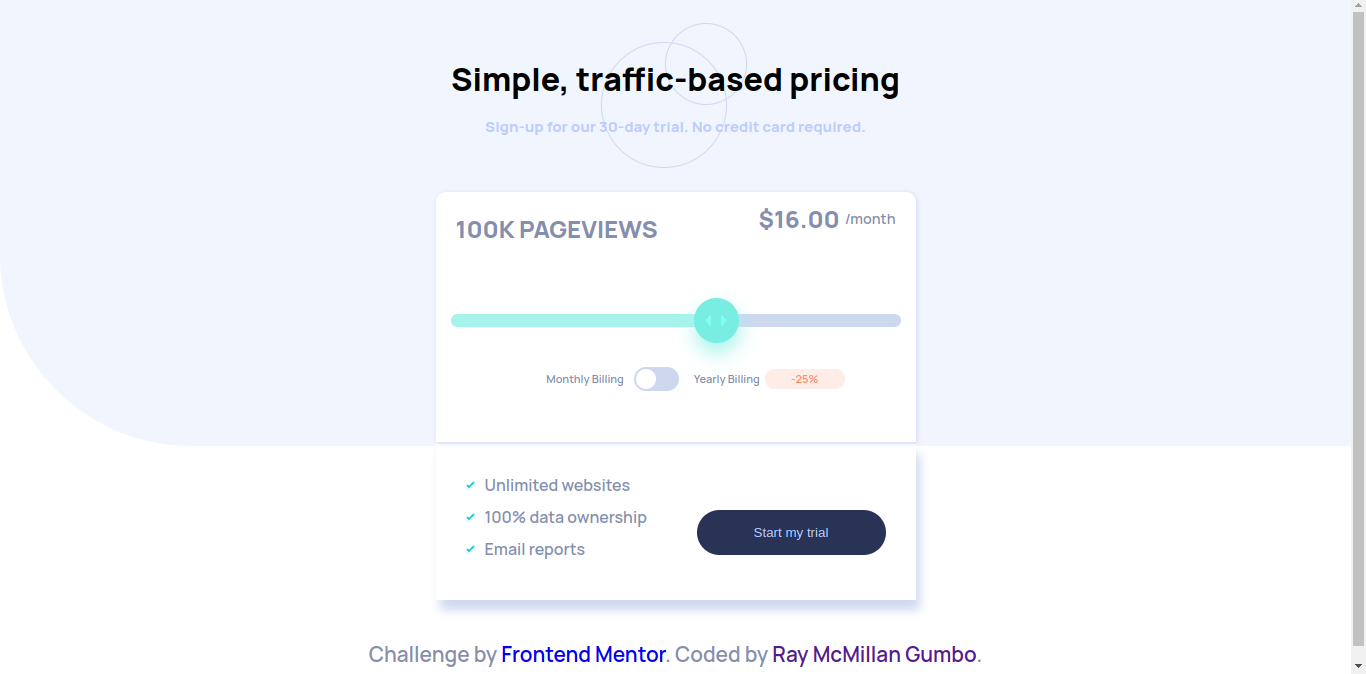
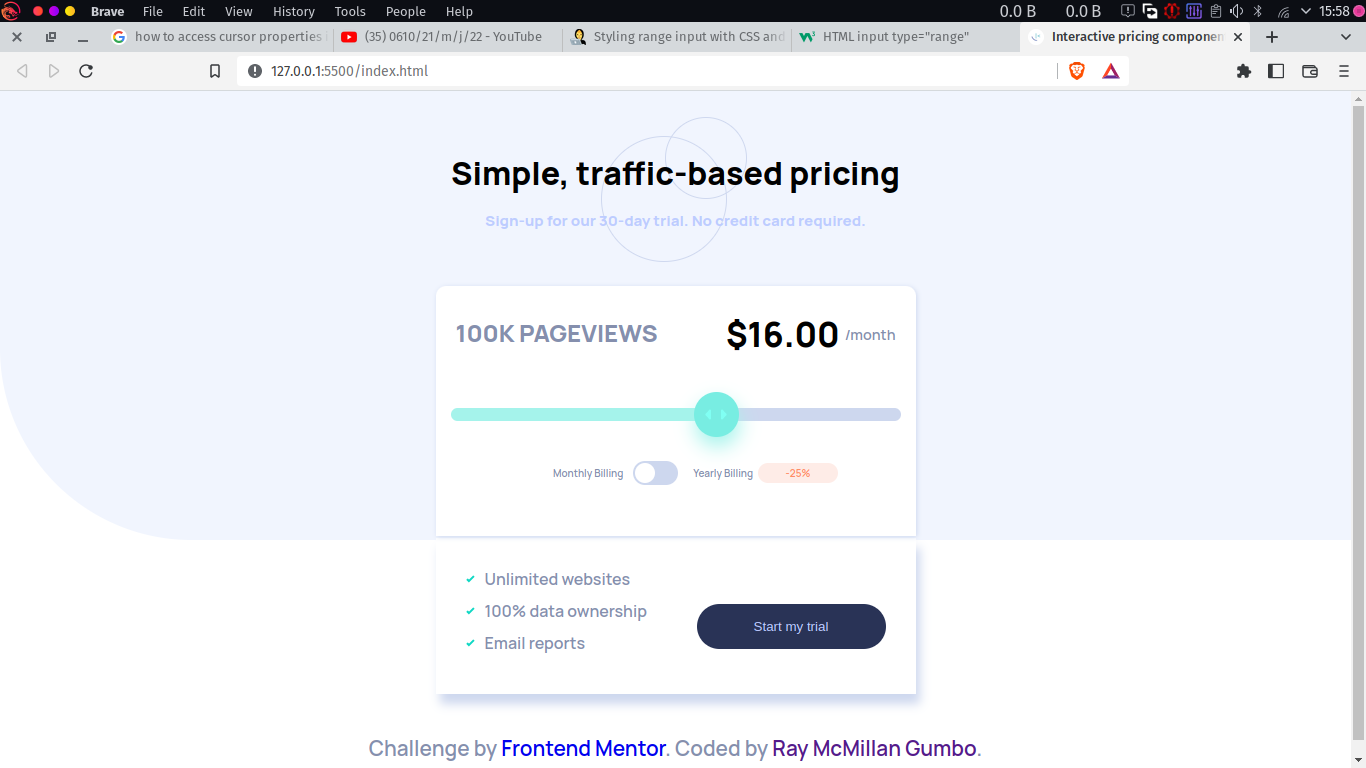
UPDATE FILE

diff --git a/styles/main.css b/styles/main.css
@@ -253,30 +253,33 @@ body {
   .price-section .views {
     position: absolute;
     left: 20px;
-    top: -10px;
-    margin-bottom: 70px;
+    top: 0;
+    margin-bottom: 80px;
   }
   .price-section span {
     position: absolute;
-    top: -20px;
+    top: -5px;
     right: 20px;
   }
-  .price-section .bill-section {
+  .price-section span h1 {
+    font-size: 2.1rem;
+    color: black;
+  }
+  .bill-section {
     gap: 10px;
     margin-top: 10px;
     margin-right: -40px;
   }
-  .price-section .monthly-billing p {
-    font-size: 0.69rem;
-    border: 1px soild red;
-  }
-  .price-section .yearly-billing p {
+  .monthly-billing p {
     font-size: 0.69rem;
   }
-  .price-section .percentage p {
+  .yearly-billing p {
     font-size: 0.69rem;
   }
-  .price-section .discount {
+  .percentage p {
+    font-size: 0.69rem;
+  }
+  .discount {
     display: flex;
     flex-direction: row;
     align-items: center;
@@ -285,28 +288,29 @@ body {
     width: 95px;
     height: 10px;
   }
-  .bottom-section {
-    width: 480px;
-    display: flex;
-    flex-direction: row;
-    align-items: center;
-    justify-content: space-between;
-    gap: 40px;
-  }
-  .bottom-section .submit-btn {
-    width: 45%;
-  }
-  .information {
-    display: flex;
-    flex-direction: column;
-    align-items: center;
-    justify-content: center;
-    align-items: flex-start;
-  }
-  .information .extra-info {
-    text-align: left;
-    display: flex;
-    flex-direction: row;
-    gap: 10px;
-  }
+}
+.bottom-section {
+  width: 480px;
+  display: flex;
+  flex-direction: row;
+  align-items: center;
+  justify-content: space-between;
+  gap: 40px;
+}
+.bottom-section .submit-btn {
+  width: 45%;
+}
+
+.information {
+  display: flex;
+  flex-direction: column;
+  align-items: center;
+  justify-content: center;
+  align-items: flex-start;
+}
+.information .extra-info {
+  text-align: left;
+  display: flex;
+  flex-direction: row;
+  gap: 10px;
 }/*# sourceMappingURL=main.css.map */

diff --git a/styles/_desktop-design.scss b/styles/_desktop-design.scss
@@ -18,14 +18,20 @@
         .views {
             position: absolute;
             left: 20px;
-            top: -10px;
+            top: 0;
 
-            margin-bottom: 70px;
+            margin-bottom: 80px;
         }
         span {
             position: absolute;
-            top: -20px;
+            top: -5px;
             right: 20px;
+            
+            h1 {
+                font-size: 2.1rem;
+                color: black;
+            }
+        }
         }
 
         .bill-section {
@@ -38,7 +44,6 @@
         .monthly-billing {
             p {
                 font-size: 0.69rem;
-                border: 1px soild red;
             }
         }
         .yearly-billing {
@@ -87,4 +92,3 @@
             gap: 10px;
         }
     }
-}
